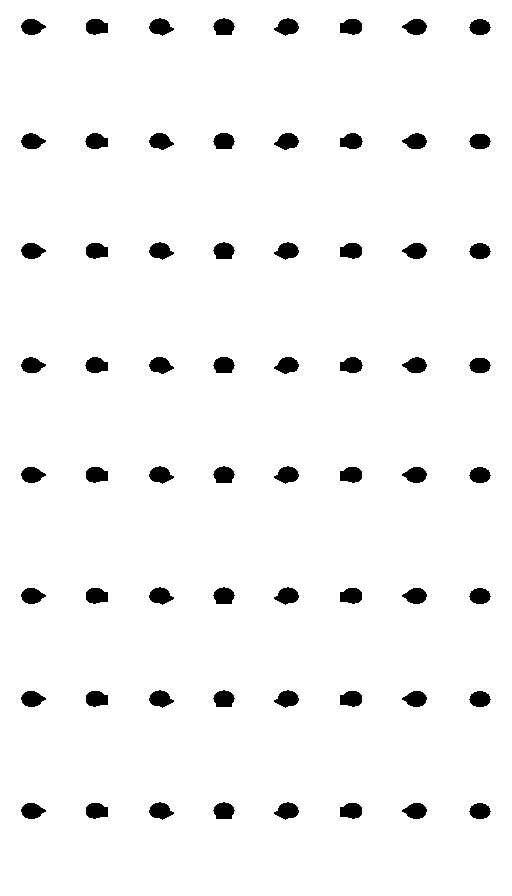
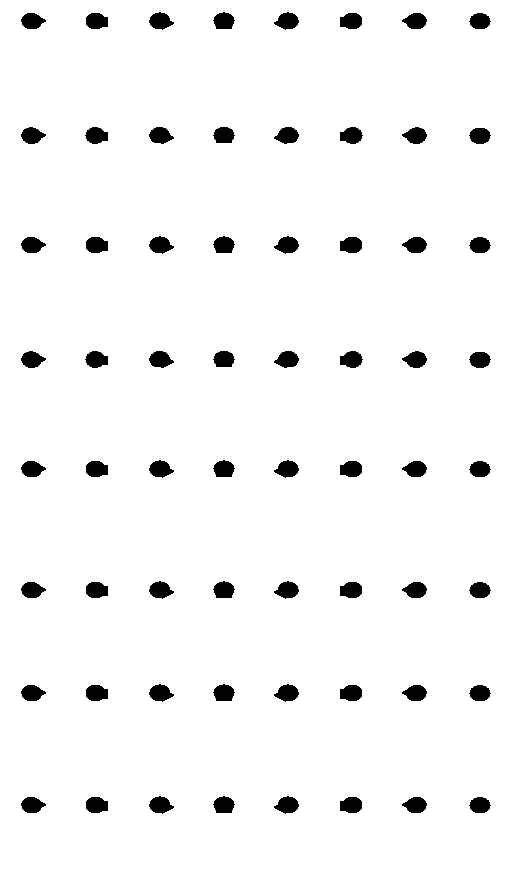
jtbug #349: raise the Bellhop Cap off the eyed faces' brow and eyes
ha10's visor bottom edge landed on row 34 at stand dir 3, drawing over
the new eyed faces' brow (row 31) and eyes (rows 34-35). figure_project's
row term is `- p.z` with no rotation coupling, and the head bone carries
zero rotation in every pose, so a +6 lift on both ha10 prims' z is an
exact -6 row shift in every frame and direction. New visor edge lands at
row 28/29, three rows clear of the brow.

Also fixes packages/shared/src/heap.ts (jtbug #421): its constructor used
a TS parameter property, which node --experimental-strip-types cannot
erase, so make art (via postpass.ts/figurepass.ts) was broken outright.
Needed a working make art to render and verify this fix.

diff --git a/packages/shared/src/heap.ts b/packages/shared/src/heap.ts
@@ -8,11 +8,13 @@
 export class IndexedHeap {
   private readonly heap: Int32Array;
   private readonly at: Int32Array;
+  private readonly better: (a: number, b: number) => boolean;
   private len = 0;
 
-  constructor(capacity: number, private readonly better: (a: number, b: number) => boolean) {
+  constructor(capacity: number, better: (a: number, b: number) => boolean) {
     this.heap = new Int32Array(capacity);
     this.at = new Int32Array(capacity).fill(-1);
+    this.better = better;
   }
 
   get length(): number {

diff --git a/tools/artgen/rig.py b/tools/artgen/rig.py
@@ -2038,12 +2038,18 @@ FIGURE_PARTS = {
     },
     # Bellhop Cap (set 10, hides hr). The hides rule is what keeps the holdout set at size one:
     # without it a cap would need a holdout render per hair set.
+    #
+    # jtbug #349: the visor's front-bottom edge landed on row 34 at stand dir 3 and drew over the
+    # eyed faces' brow (row 31) and eyes (rows 34-35). figure_project's row term is `- p.z` with no
+    # rotation coupling, and the head bone carries zero rotation in every pose, so a +6 lift on both
+    # prims' z is an exact -6 row shift in every frame and direction — no reshaping needed. New
+    # visor edge lands at row 28, three rows clear of the brow.
     "ha10": {
         "prims": [
-            {"t": "ball", "bone": "head", "slot": 0, "c": (0.0, -0.6, 17.0), "r": 10.6,
+            {"t": "ball", "bone": "head", "slot": 0, "c": (0.0, -0.6, 23.0), "r": 10.6,
              "squash": (1.0, 0.94, 0.62)},
-            {"t": "box",  "bone": "head", "slot": 0, "c0": (-8.0, 4.0, 15.2),
-             "c1": (8.0, 11.6, 16.6)},
+            {"t": "box",  "bone": "head", "slot": 0, "c0": (-8.0, 4.0, 21.2),
+             "c1": (8.0, 11.6, 22.6)},
         ],
     },
     "ea12": {
